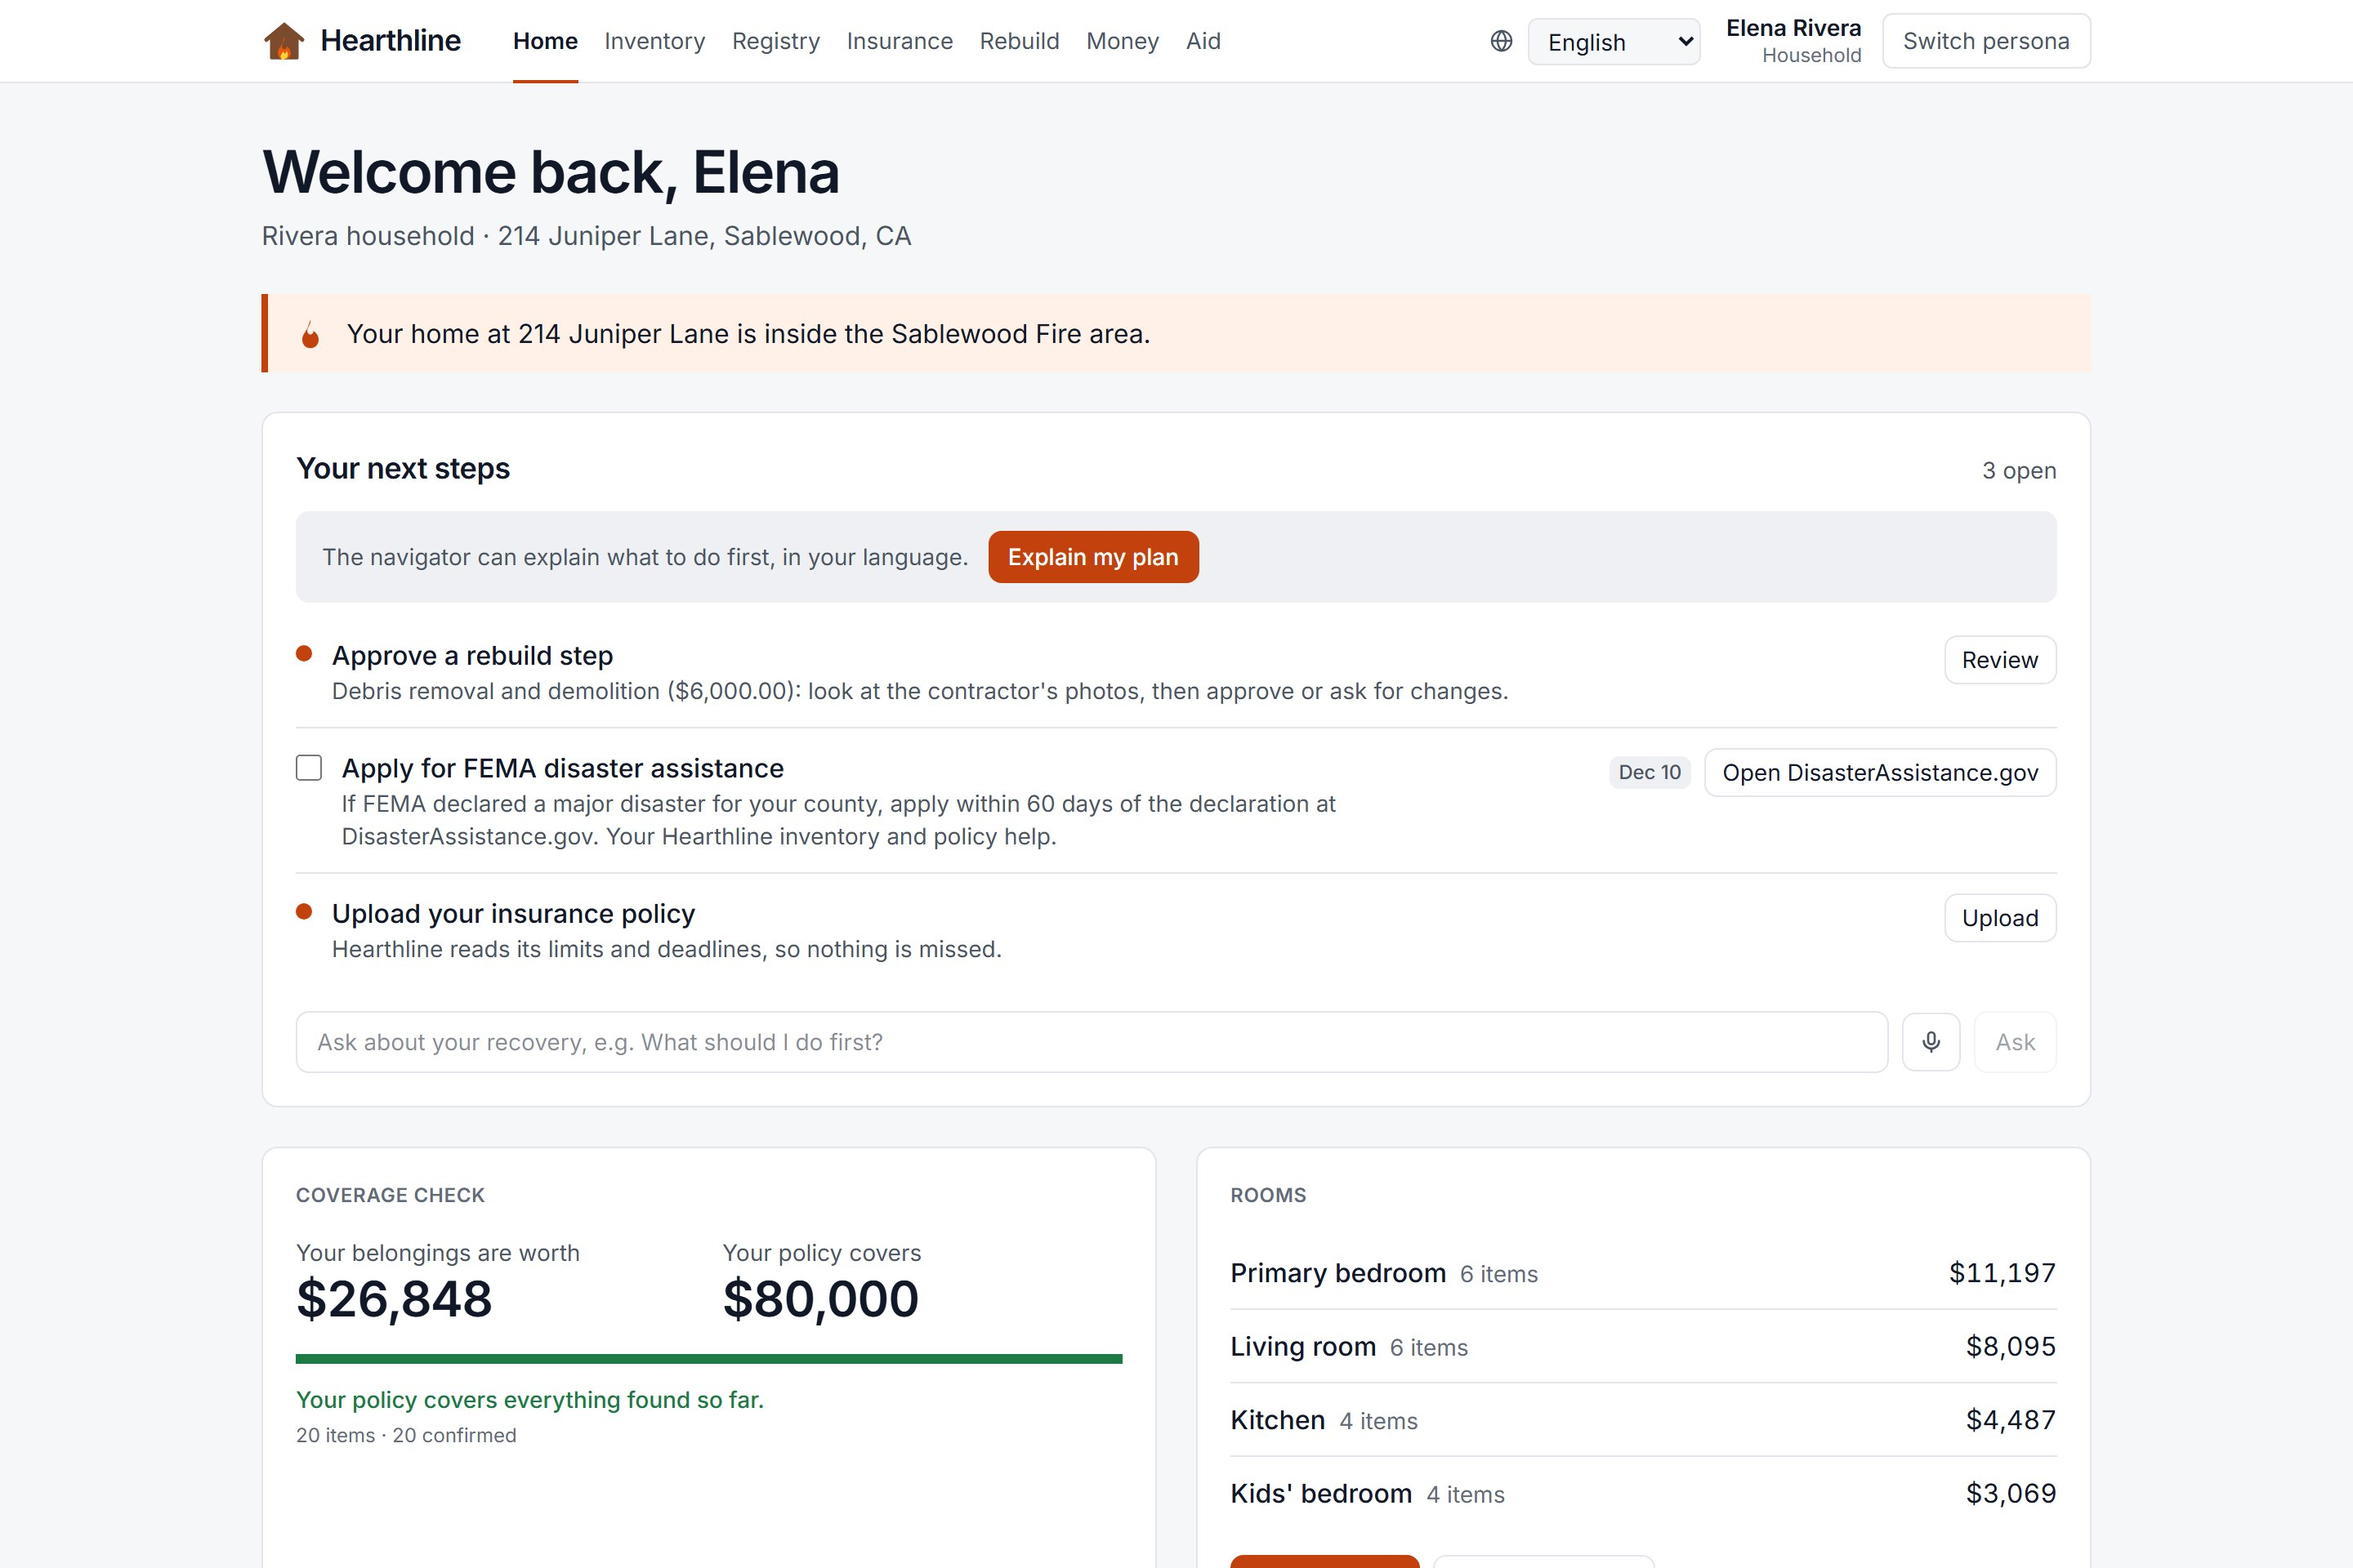
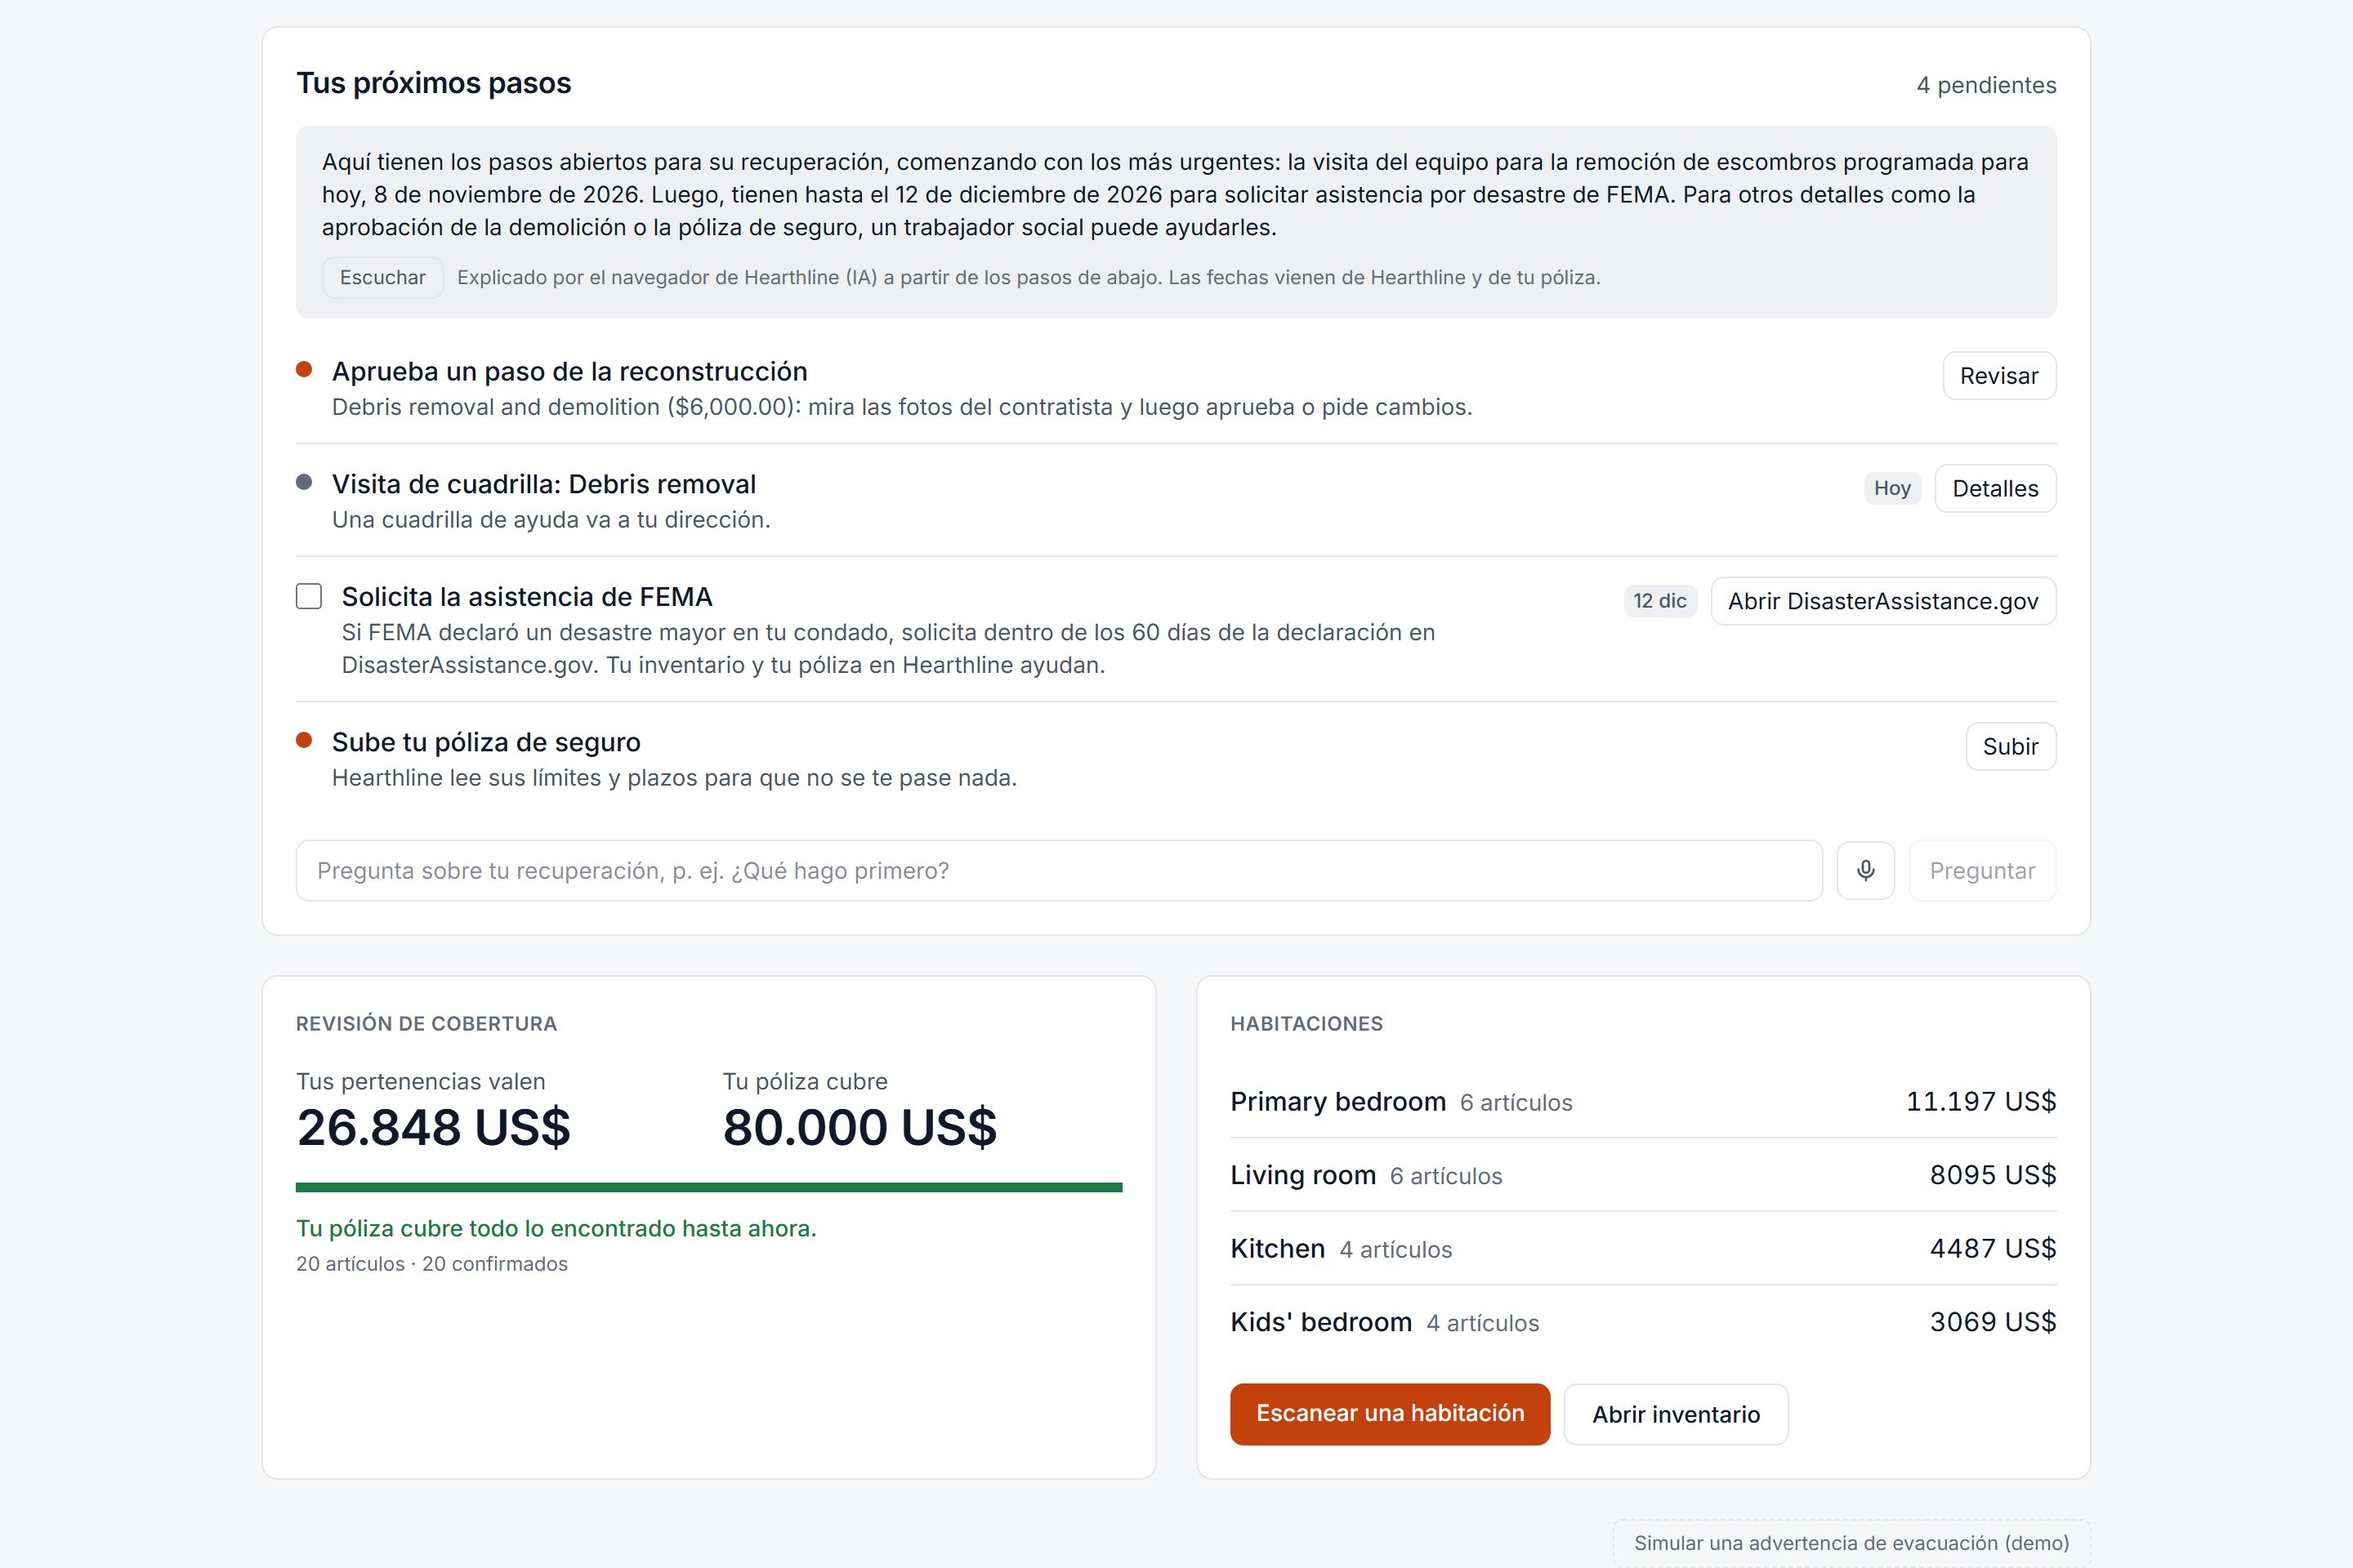
Gallery retaken from a freshly reset demo; the navigator shot shows its explanation in Spanish

diff --git a/e2e/gallery.py b/e2e/gallery.py
@@ -43,9 +43,21 @@ async def landing(browser: Browser) -> None:
     await save(page, "01-landing")
 
 
+async def open_in(browser: Browser, lang: str, persona: str, path: str) -> Page:
+    ctx = await browser.new_context(viewport=VIEW, device_scale_factor=2, color_scheme="light")
+    await ctx.add_init_script(f"localStorage.setItem('hearthline.lang', '{lang}')")
+    page = await ctx.new_page()
+    await page.goto(f"{WEB}/login?as={persona}&next={path}", wait_until="networkidle", timeout=LONG)
+    return page
+
+
 async def navigator(browser: Browser) -> None:
-    page = await open_as(browser, "elena.rivera", "/home")
-    await page.get_by_text(re.compile("next steps", re.I)).first.wait_for(timeout=LONG)
+    """Elena reads Spanish: her steps and the navigator's explanation of them."""
+    page = await open_in(browser, "es", "elena.rivera", "/home")
+    nav = page.locator("section[aria-labelledby='navigator-title']")
+    await nav.get_by_role("button", name="Explícame mi plan").click(timeout=LONG)
+    await nav.get_by_text("Explicado por el navegador").wait_for(timeout=LONG)
+    await nav.evaluate("n => window.scrollTo(0, n.getBoundingClientRect().top + window.scrollY - 16)")
     await save(page, "02-recovery-navigator")
 
 

diff --git a/docs/gallery/README.md b/docs/gallery/README.md
@@ -6,7 +6,7 @@ Screenshots of the hosted demo for the Devpost gallery, 3:2 at 2880 x 1920. Reta
 | Image | Caption |
 |---|---|
 | [01-landing.jpg](01-landing.jpg) | The first page is a guide for judges: the problem in sourced numbers, and every feature one click away. |
-| [02-recovery-navigator.jpg](02-recovery-navigator.jpg) | Elena's next steps with real dates, worked out in code and explained by the recovery navigator in her language. |
+| [02-recovery-navigator.jpg](02-recovery-navigator.jpg) | Elena's next steps with real dates, worked out in code, and the recovery navigator explaining them in Spanish. |
 | [03-inventory-pivot-chart.jpg](03-inventory-pivot-chart.jpg) | AG Grid pivot mode and a pivot chart: what each room held, by kind of item, from photos taken before the fire. |
 | [04-registry-paypal.jpg](04-registry-paypal.jpg) | A family's Rebuild Registry: give for a specific need with PayPal, Venmo or Pay Later, in six currencies. |
 | [05-command-center-ask-the-grid.jpg](05-command-center-ask-the-grid.jpg) | The Command Center: AG Grid's server-side row model over 2,005 households. "Ask the grid" turned a question into these filters. |
